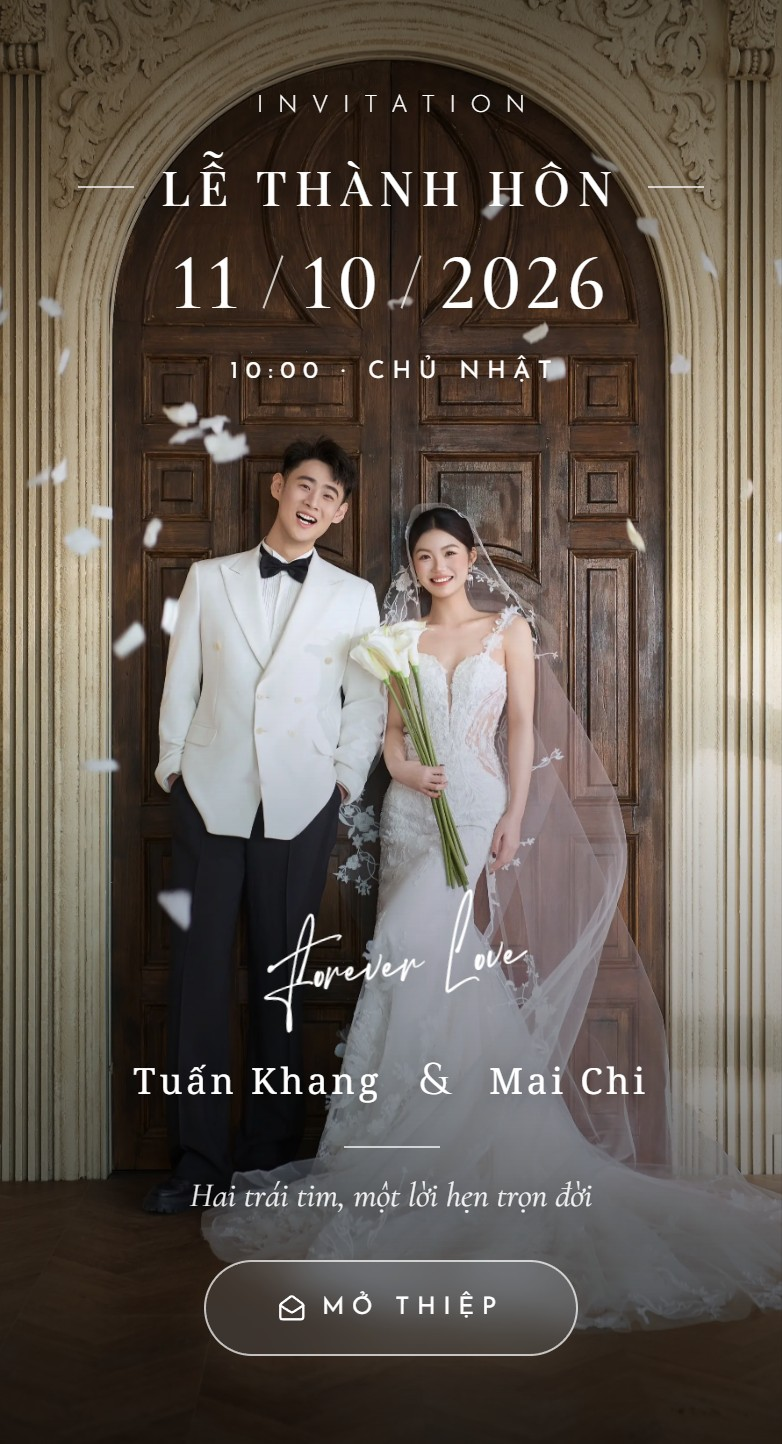
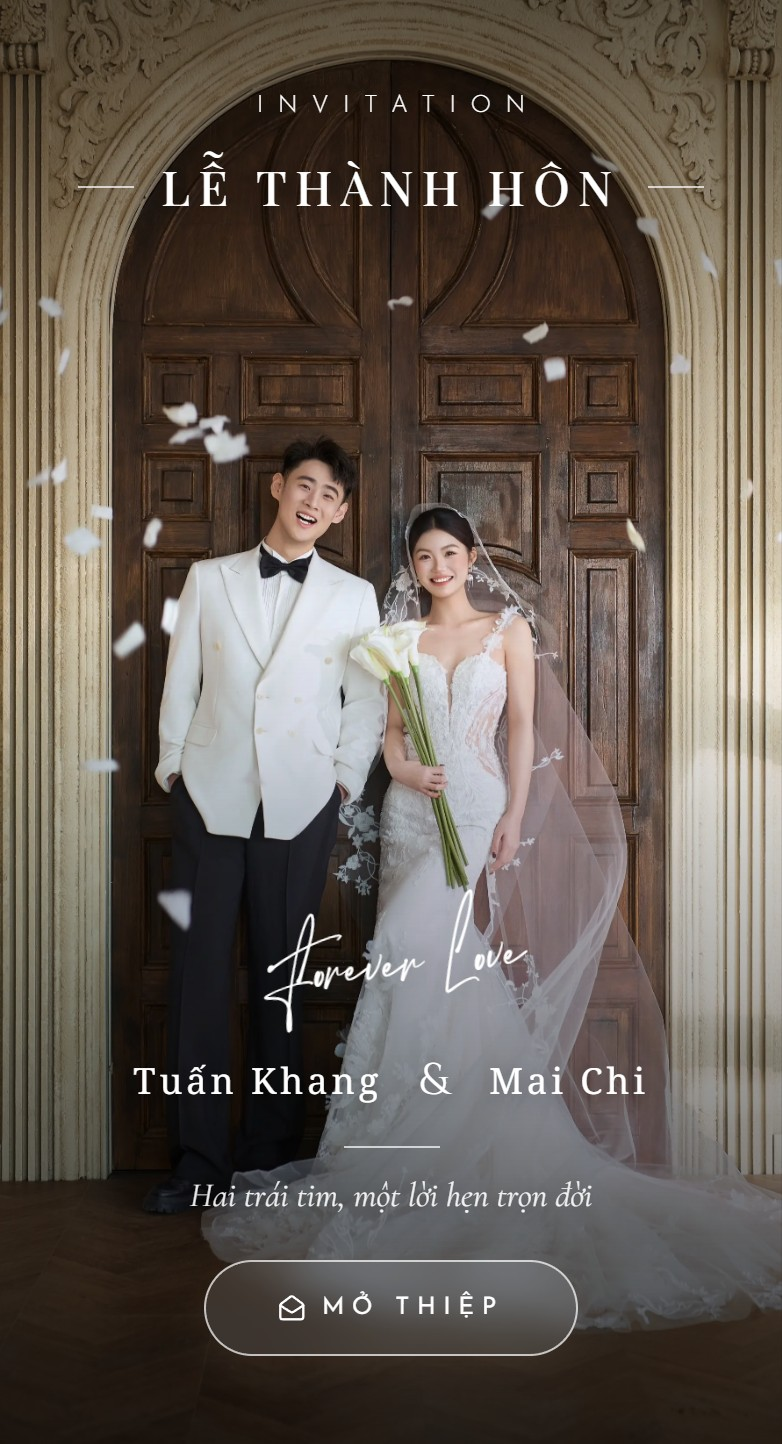
Sửa màn hero

diff --git a/public/themes/romantic-blush/index.js b/public/themes/romantic-blush/index.js
@@ -118,9 +118,6 @@
     const cd = _day(w.ceremony_date);
     renderCover(w);
     setText("rb-cover-event", ceremonyName);
-    setText("rb-cover-d", cd ? _pad(cd.getDate()) : "", "--");
-    setText("rb-cover-m", cd ? _pad(cd.getMonth() + 1) : "", "--");
-    setText("rb-cover-y", cd ? String(cd.getFullYear()) : "", "----");
     renderHero(w, false);
     setText("rb-hero-event", ceremonyName);
     setText("rb-hero-d", cd ? _pad(cd.getDate()) : "", "--");
@@ -128,12 +125,10 @@
     setText("rb-hero-y", cd ? String(cd.getFullYear()) : "", "----");
     // Nơi làm lễ của đúng bên (nhà gái bật Vu Quy → nơi vu quy); trống thì lùi về nơi tiệc.
     setText("rb-hero-place", ceremonyLoc || partyLocation, "");
-    // Giờ lễ · thứ dưới ngày của bìa + màn 1; chưa có cả hai thì ẩn hẳn dòng.
+    // Giờ lễ · thứ dưới ngày của màn 1; chưa có cả hai thì ẩn hẳn dòng.
     const when = [ceremonyTime, cd ? WEEKDAYS[cd.getDay()] : ""].filter(Boolean).join(" · ");
-    ["rb-cover-time", "rb-hero-time"].forEach((id) => {
-      setText(id, when, "");
-      cxToggle(id, !!when);
-    });
+    setText("rb-hero-time", when, "");
+    cxToggle("rb-hero-time", !!when);
 
     // Ảnh trang trí của mọi màn lấy từ album
     _fillPhotos(w);

diff --git a/core/config.js b/core/config.js
@@ -13,7 +13,7 @@ const USE_CACHE = true;
 // Bản thân file này KHÔNG mang `?v=` (nó là mỏ neo, phải đọc được version từ
 // nó trước đã) → trên Cloudflare phải có Cache Rule bypass `/core/config.js`,
 // nếu không đổi số ở đây cũng vô nghĩa.
-const CX_VERSION = "2026.11.19-5";
+const CX_VERSION = "2026.11.19-6";
  
 // Thẻ <link> CSS viết cứng trong HTML không tự mang `?v=` → dễ rơi vào cảnh
 // HTML/partial đã là bản mới mà CSS vẫn là bản cũ (trang không vỡ, chỉ sai bố

diff --git a/public/themes/romantic-blush/index.html b/public/themes/romantic-blush/index.html
@@ -78,10 +78,6 @@
         <div class="rb-hero-top">
           <div class="rb-hero-kicker">Invitation</div>
           <div class="rb-hero-event" id="rb-cover-event">Lễ Thành Hôn</div>
-          <div class="rb-hero-date">
-            <span id="rb-cover-d">--</span><i></i><span id="rb-cover-m">--</span><i></i><span id="rb-cover-y">----</span>
-          </div>
-          <div class="rb-hero-time hidden" id="rb-cover-time"></div>
         </div>
 
         <div class="rb-hero-bottom">

diff --git a/public/themes/romantic-blush/theme.css b/public/themes/romantic-blush/theme.css
@@ -2177,14 +2177,6 @@ html.cx-pshell-host.rb-stack body {
   animation: cx-rb-cv-in 1s ease-out 0.4s both;
 }
 
-.rb-cover .rb-hero-date {
-  animation: cx-rb-cv-in 1s ease-out 0.6s both;
-}
-
-.rb-cover .rb-hero-time {
-  animation: cx-rb-cv-in 1s ease-out 0.75s both;
-}
-
 /* Chữ ký đã xoay bằng transform → chỉ mờ dần, đụng transform là mất góc nghiêng. */
 .rb-cover .rb-hero-script {
   animation: cx-rb-cv-fade 1.2s ease-out 0.8s both;
